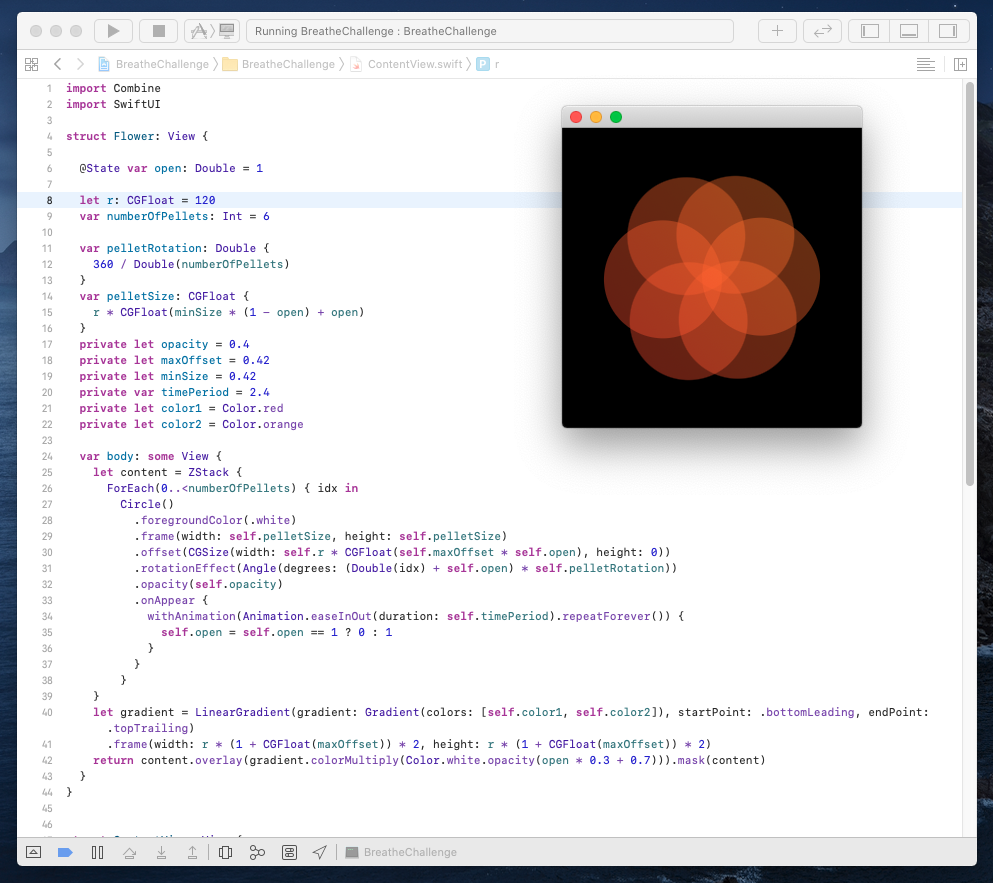
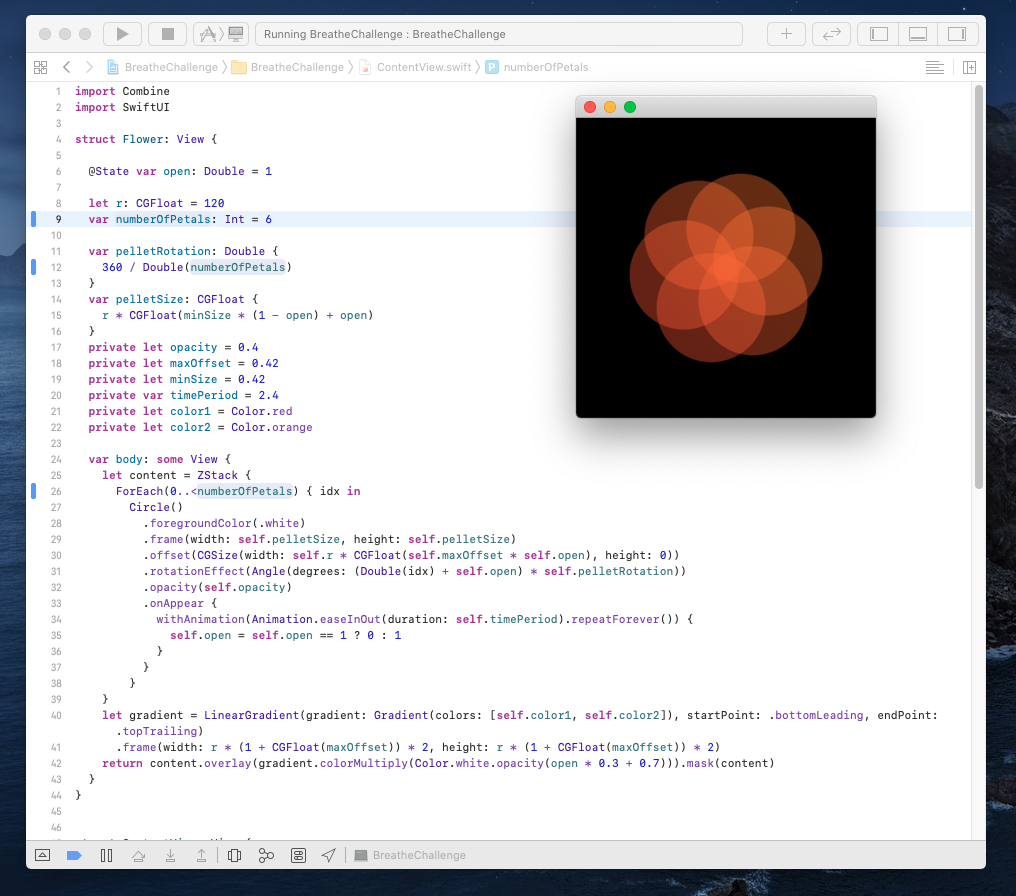
s/pellet/petal

diff --git a/BreatheChallenge/ContentView.swift b/BreatheChallenge/ContentView.swift
@@ -6,10 +6,10 @@ struct Flower: View {
   @State var open: Double = 1
   
   let r: CGFloat = 120
-  var numberOfPellets: Int = 6
+  var numberOfPetals: Int = 6
   
   var pelletRotation: Double {
-    360 / Double(numberOfPellets)
+    360 / Double(numberOfPetals)
   }
   var pelletSize: CGFloat {
     r * CGFloat(minSize * (1 - open) + open)
@@ -23,7 +23,7 @@ struct Flower: View {
   
   var body: some View {
     let content = ZStack {
-      ForEach(0..<numberOfPellets) { idx in
+      ForEach(0..<numberOfPetals) { idx in
         Circle()
           .foregroundColor(.white)
           .frame(width: self.pelletSize, height: self.pelletSize)
